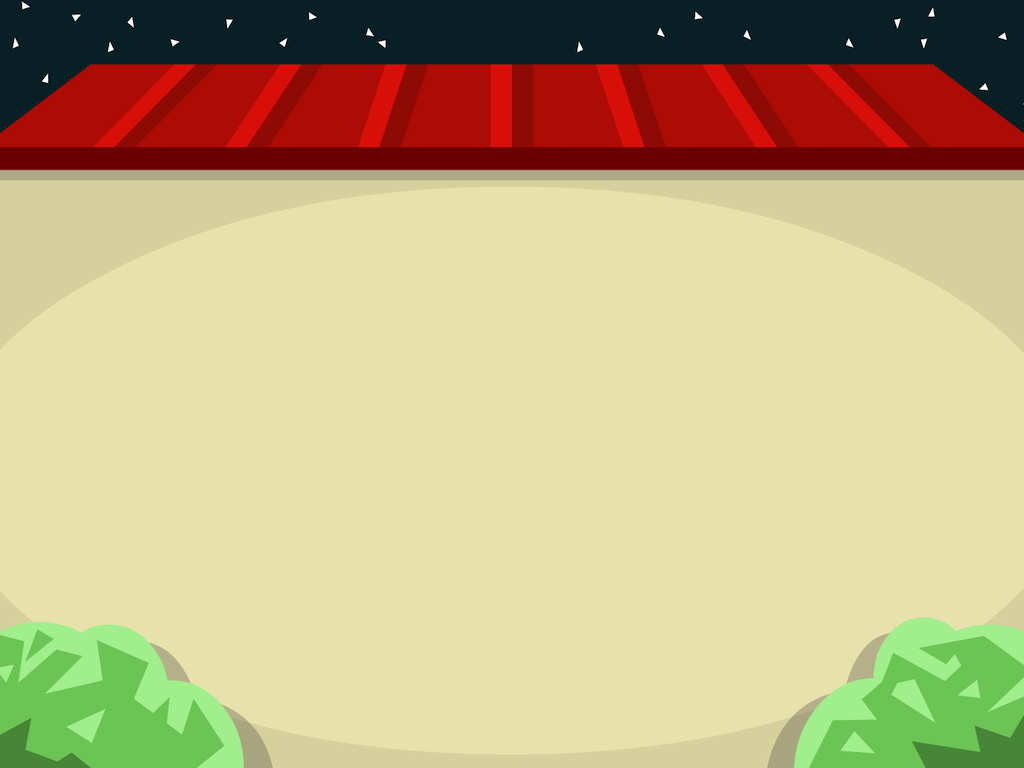
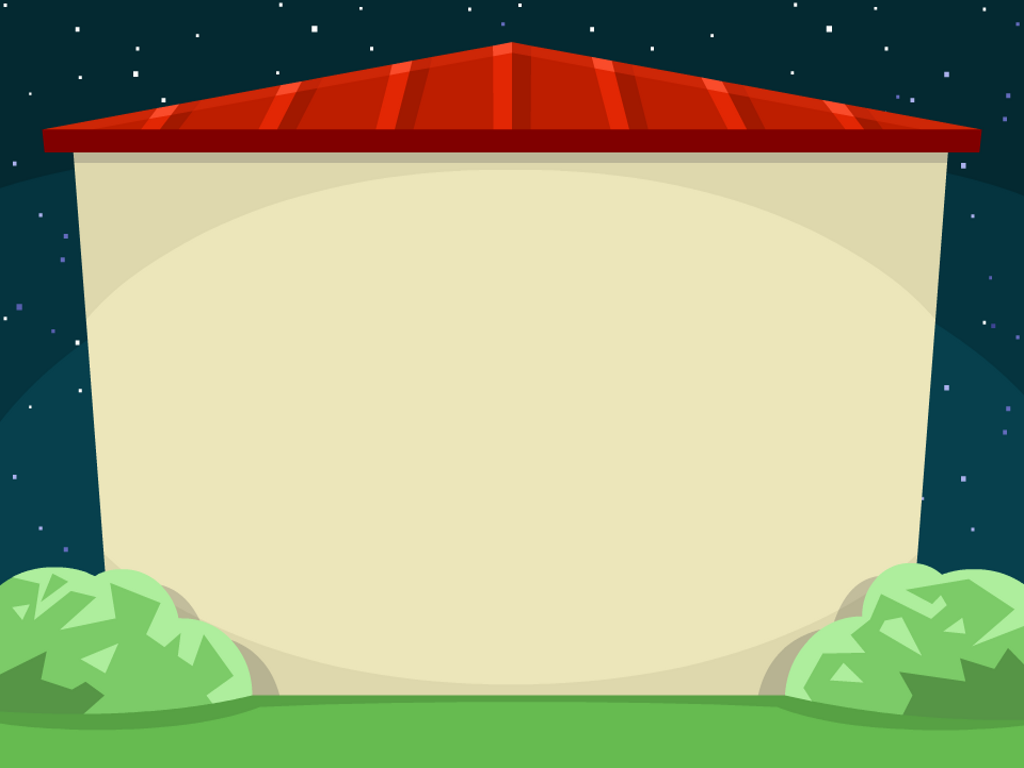
A little bit of make-up before WebReady

diff --git a/TheLostGhosts/MainMenuScene.m b/TheLostGhosts/MainMenuScene.m
@@ -8,6 +8,7 @@
 
 #import "MainMenuScene.h"
 #import "GameScene.h"
+#import "DefaulBackgroundLayer.h"
 #import "cocos2d.h"
 
 @implementation MainMenuScene
@@ -16,33 +17,42 @@
     self = [super init];
     
     if(self != nil) {
-        // ask director for the window size
-        CGSize size = [[CCDirector sharedDirector] winSize];
         
-        CCSprite *background = [CCSprite spriteWithFile:@"main_menu_background.png"];
+        DefaulBackgroundLayer *defaultBackgroundLayer = [DefaulBackgroundLayer node];
         
-        background.position = ccp(size.width/2, size.height/2);
-        
-        // add the label as a child to this Layer
-        [self addChild: background];
-        
-        CCMenuItemImage *pauseButton = [CCMenuItemImage
-                                        itemFromNormalImage:@"btn_start_normal.png"
-                                        selectedImage:@"btn_start_pressed.png"
-                                        
-                                        block:^(id sender) {
-                                            
-                                            [[CCDirector sharedDirector] replaceScene:[GameScene node]];
-                                            
-                                        }];
-        CCMenu *hudMenu = [CCMenu menuWithItems:pauseButton, nil];
-        
-        hudMenu.position = ccp(size.width / 2, size.height/2.3);
-        
-        [self addChild: hudMenu];        
+        [self addChild: defaultBackgroundLayer];
     }
     
     return self;
+}
+
+-(void)onEnter {
+    [super onEnter];
+    
+    CGSize size = [[CCDirector sharedDirector] winSize];
+    
+    CCMenuItemImage *pauseButton = [CCMenuItemImage
+                                    itemFromNormalImage:@"btn_start_normal.png"
+                                    selectedImage:@"btn_start_pressed.png"
+                                    
+                                    block:^(id sender) {
+                                        
+                                        [[CCDirector sharedDirector] replaceScene:[GameScene node]];
+                                        
+                                    }];
+    CCMenu *hudMenu = [CCMenu menuWithItems:pauseButton, nil];
+    
+    hudMenu.position = ccp(size.width / 2, size.height/2.3);
+    
+    [self addChild: hudMenu z:10];
+    
+    CCSprite *caption = [CCSprite spriteWithFile:@"caption.png"];
+	
+    caption.position = ccp(size.width/2, size.height/2);
+    
+	// add the label as a child to this Layer
+	[self addChild: caption z:5];
+
 }
 
 @end

diff --git a/TheLostGhosts/GamePauseLayer.m b/TheLostGhosts/GamePauseLayer.m
@@ -28,6 +28,25 @@
             
         // add the label as a child to this Layer
         [self addChild: background];
+        
+        CCMenuItemImage *pauseButton = [CCMenuItemImage
+                                        itemFromNormalImage:@"img_pause_caption.png"
+                                        selectedImage:@"img_pause_caption.png"
+                                        
+                                        block:^(id sender) {
+                                            GamePauseLayer *gamePauseLayer = [GamePauseLayer node];
+                                            
+                                            [self addChild:gamePauseLayer z:50];
+                                            
+                                            [[CCDirector sharedDirector] resume];
+                                         
+                                        }];
+        CCMenu *hudMenu = [CCMenu menuWithItems:pauseButton, nil];
+        
+        hudMenu.position = ccp(size.width / 2, size.height/2.3);
+        
+        [self addChild: hudMenu z:10];
+
     
     }
     

diff --git a/TheLostGhosts/DefaulBackgroundLayer.m b/TheLostGhosts/DefaulBackgroundLayer.m
@@ -1,0 +1,37 @@
+//
+//  DefaulBackgroundLayer.m
+//  TheLostGhosts
+//
+//  Created by Igor Mandrigin on 11/29/12.
+//
+//
+
+#import "DefaulBackgroundLayer.h"
+#import "cocos2d.h"
+
+@implementation DefaulBackgroundLayer
+//
+-(void) onEnter
+{
+	[super onEnter];
+    
+	// ask director for the window size
+	CGSize size = [[CCDirector sharedDirector] winSize];
+    
+	CCSprite *background = [CCSprite spriteWithFile:@"default_bg_back.png"];
+	
+    background.position = ccp(size.width/2, size.height/2);
+    
+	// add the label as a child to this Layer
+	[self addChild: background];
+
+	CCSprite *backgroundStars = [CCSprite spriteWithFile:@"default_bg_stars.png"];
+	
+    backgroundStars.position = ccp(size.width/2, size.height/2);
+    
+	// add the label as a child to this Layer
+	[self addChild: backgroundStars];
+
+}
+
+@end

diff --git a/TheLostGhosts/GameScene.m b/TheLostGhosts/GameScene.m
@@ -23,12 +23,15 @@
         
         CGSize size = [[CCDirector sharedDirector] winSize];
         
-        int topMargin    = 200;
-        int bottomMargin = 50;
-        int leftMargin   = 30;
-        int rightMargin  = 30;
+        int topMargin    = 180;
+        int bottomMargin = 180;
+        int leftMargin   = 120;
+        int rightMargin  = 120;
         
         Level *currentLevel = [[Game sharedGame] createCurrentLevel];
+        
+        
+        
         GamePlayLayer *gamePlayLayer = [GamePlayLayer createWithHeight: (int)size.height - (topMargin + bottomMargin)
                                                                  width: (int)size.width - (leftMargin + rightMargin)
                                                               andLevel: currentLevel];

diff --git a/TheLostGhosts/AppDelegate.m b/TheLostGhosts/AppDelegate.m
@@ -3,13 +3,13 @@
 //  TheLostGhosts
 //
 //  Created by Igor Mandrigin on 11/20/12.
-//  Copyright __MyCompanyName__ 2012. All rights reserved.
+//  Copyright FlexyMind 2012. All rights reserved.
 //
 
 #import "cocos2d.h"
 
 #import "AppDelegate.h"
-#import "SplashScreenScene.h"
+#import "MainMenuScene.h"
 
 @implementation AppController
 
@@ -73,7 +73,7 @@
 	[CCTexture2D PVRImagesHavePremultipliedAlpha:YES];
 
 	// and add the scene to the stack. The director will run it when it automatically when the view is displayed.
-	SplashScreenScene *splashScreenScene = [SplashScreenScene node];
+	MainMenuScene *splashScreenScene = [MainMenuScene node];
     [director_ pushScene: splashScreenScene];
 
 	

diff --git a/TheLostGhosts/GameHUDLayer.m b/TheLostGhosts/GameHUDLayer.m
@@ -25,11 +25,13 @@
                                                 GamePauseLayer *gamePauseLayer = [GamePauseLayer node];
                                                 
                                                 [self addChild:gamePauseLayer z:50];
+                                                
+                                                [[CCDirector sharedDirector] pause];
 
                                             }];
         CCMenu *hudMenu = [CCMenu menuWithItems:pauseButton, nil];
 
-        hudMenu.position = ccp(size.width / 10, size.height/1.17);
+        hudMenu.position = ccp(size.width / 14, size.height/1.10);
 
         [self addChild: hudMenu];
     }

diff --git a/TheLostGhosts/LevelStorage.m b/TheLostGhosts/LevelStorage.m
@@ -27,7 +27,7 @@
 
 -(void)createLayouts {
     funTownLevelLayout = [LevelLayout createWithTopMargin:5.0f
-                                             bottomMargin:7.0f
+                                             bottomMargin:6.0f
                                          horizontalMargin:8.7f
                                                      rows:4
                                                   columns:5

diff --git a/TheLostGhosts/DefaulBackgroundLayer.h b/TheLostGhosts/DefaulBackgroundLayer.h
@@ -1,0 +1,13 @@
+//
+//  DefaulBackgroundLayer.h
+//  TheLostGhosts
+//
+//  Created by Igor Mandrigin on 11/29/12.
+//
+//
+
+#import "CCLayer.h"
+
+@interface DefaulBackgroundLayer : CCLayer
+
+@end
